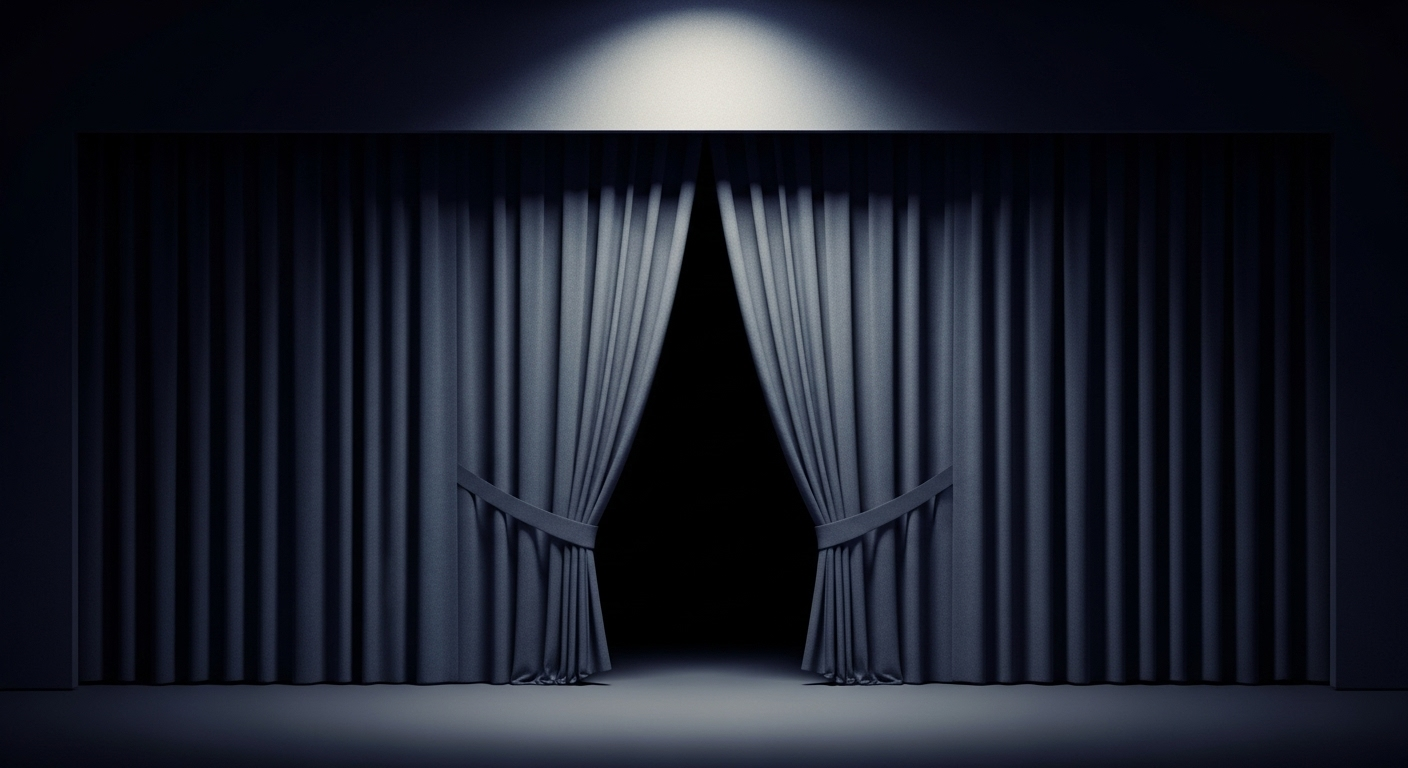
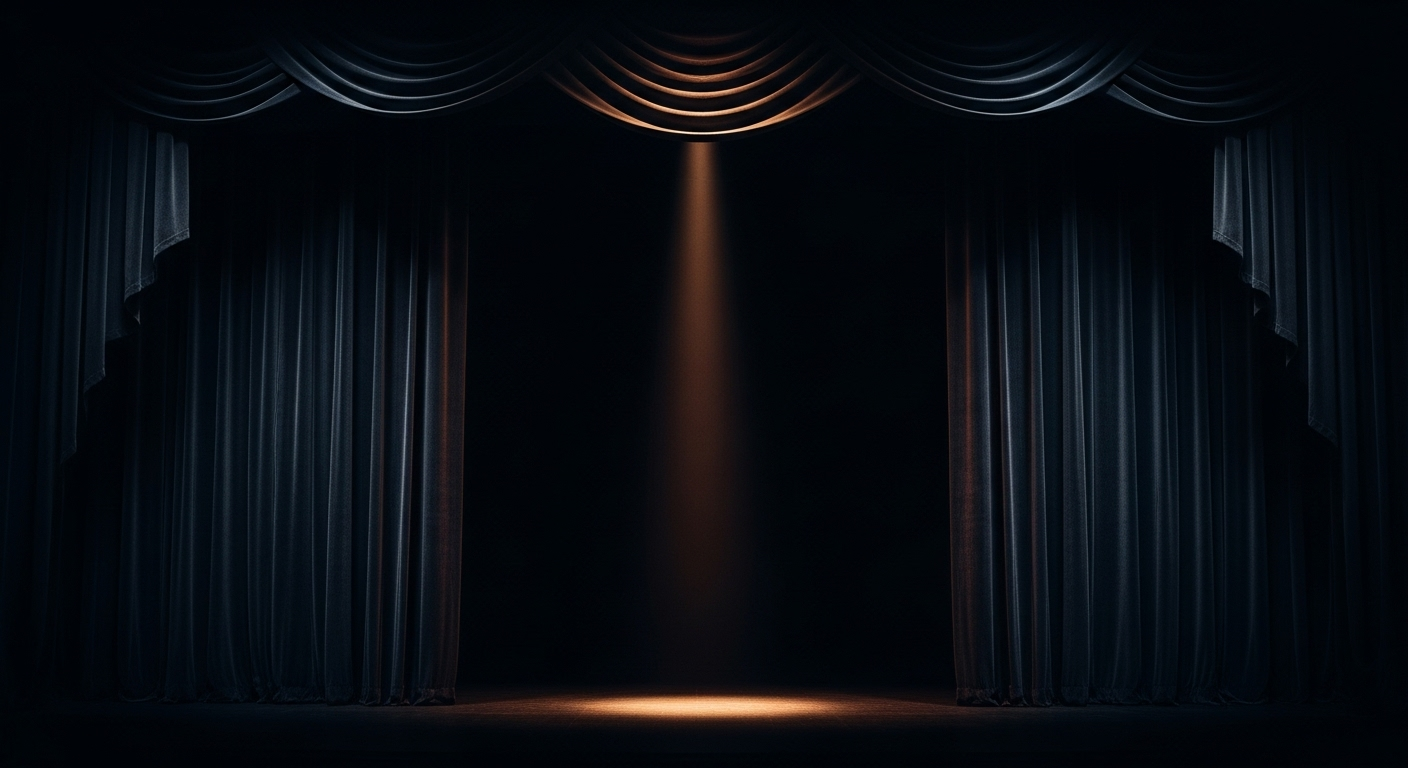
Finished MovieCard component and updated hero bg image.

diff --git a/src/index.css b/src/index.css
@@ -2,7 +2,7 @@
 @import "tailwindcss";
 
 @theme {
-  --color-primary: #06001f;
+  --color-primary: #02020a;
   --color-light-100: #cedafe;
   --color-light-200: #92a5ca;
   --color-gray-100: #a3aaaf;
@@ -12,7 +12,7 @@
 
   --breakpoint-xs: 480px;
 
-  --background-image-hero: url("/bg-hero-2.png");
+  --background-image-hero: url("/bg-hero.jpg");
 }
 
 @layer base {
@@ -60,7 +60,7 @@
     }
 
     & input {
-      @apply w-full bg-transparent py-2 sm:pr-10 pl-10 text-base text-gray-200 placeholder-light-200 outline-hidden;
+      @apply w-full bg-transparent py-2 sm:pr-10 pl-10 text-base text-gray-200 placeholder-blue-200 outline-hidden;
     }
   }
 
@@ -86,13 +86,12 @@
     & ul li img {
       @apply w-[127px] h-[163px] rounded-lg object-cover -ml-3.5;
     }
+  }
+  .all-movies {
+    @apply space-y-9;
 
-    .all-movies {
-      @apply space-y-9;
-
-      & ul {
-        @apply grid grid-cols-1 gap-5 xs:grid-cols-2 md:grid-cols-3 lg:grid-cols-4;
-      }
+    & ul {
+      @apply grid grid-cols-1 gap-5 xs:grid-cols-2 md:grid-cols-3 lg:grid-cols-4;
     }
   }
 
@@ -128,7 +127,7 @@
     }
 
     & .content .lang {
-      @apply capitalize text-gray-100 font-medium text-base;
+      @apply uppercase text-gray-100 font-medium text-base;
     }
 
     & .content .year {

diff --git a/src/App.jsx b/src/App.jsx
@@ -1,6 +1,8 @@
 import { useState } from "react";
-import Search from "./components/search";
+import Search from "./components/Search";
 import { useEffect } from "react";
+import { FadeLoader } from "react-spinners";
+import MovieCard from "./components/MovieCard";
 
 const API_URL = "https://api.themoviedb.org/3";
 
@@ -69,16 +71,16 @@ const App = () => {
         </header>
 
         <section className="all-movies">
-          <h2>All Movies</h2>
+          <h2 className="mt-[40px]">All Movies</h2>
 
           {isLoading ? (
-            <p className="text-white">Loading...</p>
+            <FadeLoader color="#ffffff" />
           ) : errorMessage ? (
             <p className="text-red-500">{errorMessage}</p>
           ) : (
             <ul>
               {movieList.map((movie) => (
-                <p className="text-white">{movie.title}</p>
+                <MovieCard key={movie.id} movie={movie} />
               ))}
             </ul>
           )}

diff --git a/src/components/MovieCard.jsx b/src/components/MovieCard.jsx
@@ -1,0 +1,38 @@
+import React from "react";
+
+const MovieCard = ({
+  movie: { title, vote_average, poster_path, release_date, original_language },
+}) => {
+  return (
+    <div className="movie-card">
+      <img
+        src={
+          poster_path
+            ? `https://image.tmdb.org/t/p/w500/${poster_path}`
+            : "/no-poster.png"
+        }
+      />
+
+      <div className="mt-4">
+        <h3>{title}</h3>
+
+        <div className="content">
+          <div className="rating">
+            <img src="star.png" alt="Star Icon" />
+            <p>{vote_average ? vote_average.toFixed(1) : "N/A"}</p>
+          </div>
+
+          <span>•</span>
+          <p className="lang">{original_language}</p>
+
+          <span>•</span>
+          <p className="year">
+            {release_date ? release_date.split("-")[0] : "N/A"}
+          </p>
+        </div>
+      </div>
+    </div>
+  );
+};
+
+export default MovieCard;
